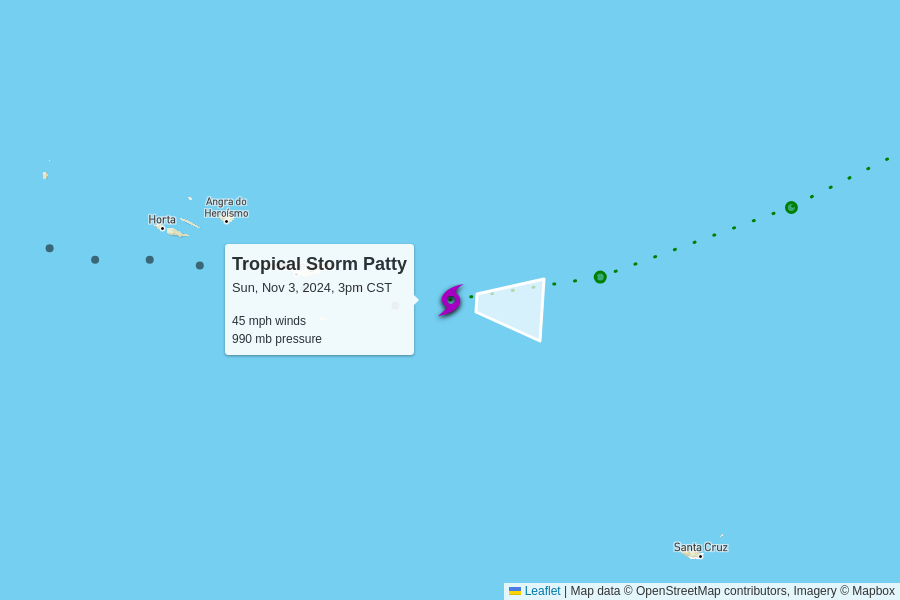
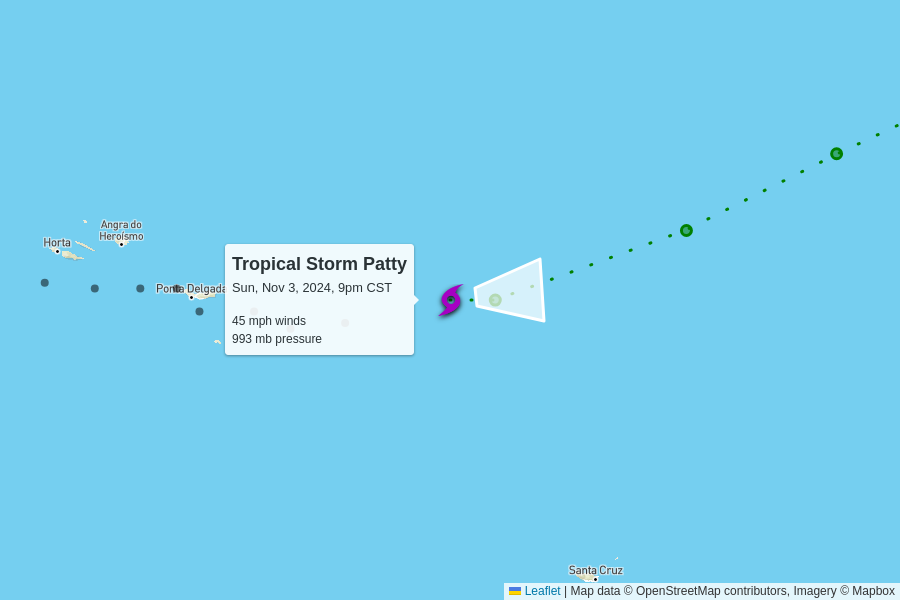
automatic update

diff --git a/docs/index.html b/docs/index.html
@@ -103,6 +103,50 @@
       <tr>
         <td colspan="6" class="storm category-0" >
           <h2>
+            Tropical Storm Patty
+            <p class="updated">last updated <span data-time>2024-11-04T03:00:00.000Z</span></p>
+          </h2>
+        </td>
+      </tr>
+      
+      <tr>
+        <th class="spacer"></th>
+        <th>wind speed</th>
+        <th>central pressure</th>
+        <th>movement</th>
+        <th>data (CSV)</th>
+        <th>National Hurricane Center</th>
+      </tr>
+      <tr>
+        <td class="spacer"></td>
+        <td>45 mph<br>0 mph since last update</td>
+        <td>993 mb<br>+3 mb since last update</td>
+        <td>
+          20 mph to the east
+          <br/>
+          <span style="display: inline-block; font-size: 1.5em; transform: rotate(85deg);">↑</span>
+        </td>
+        <td><a href="https://raw.githubusercontent.com/mgwalker/atlantic-hurricanes/main/data/csv/AL172024.csv">AL172024.csv</a></td>
+        <td><a href="https://www.nhc.noaa.gov/archive/2024/PATTY.shtml?">NHC advisories</a></td>
+      </tr>
+      <tr id="storm_AL172024" >
+        <td class="spacer">
+        <td colspan="5">
+          <figure>
+            <img src="AL172024.png">
+            <figcaption>
+              Map data &copy; <a href="https://www.openstreetmap.org/copyright">OpenStreetMap</a> contributors,
+              Imagery &copy; <a href="https://www.mapbox.com/">Mapbox</a> |
+              <a href="https://www.mapbox.com/map-feedback/" target="_blank">Improve this map</a>
+            </figcaption>
+          </figure>
+        </td>
+      </tr>
+      
+
+      <tr>
+        <td colspan="6" class="storm category-0" >
+          <h2>
             Potential Tropical Cyclone Eighteen
             <p class="updated">last updated <span data-time>2024-11-04T00:00:00.000Z</span></p>
           </h2>
@@ -134,50 +178,6 @@
         <td colspan="5">
           <figure>
             <img src="AL182024.png">
-            <figcaption>
-              Map data &copy; <a href="https://www.openstreetmap.org/copyright">OpenStreetMap</a> contributors,
-              Imagery &copy; <a href="https://www.mapbox.com/">Mapbox</a> |
-              <a href="https://www.mapbox.com/map-feedback/" target="_blank">Improve this map</a>
-            </figcaption>
-          </figure>
-        </td>
-      </tr>
-      
-
-      <tr>
-        <td colspan="6" class="storm category-0" >
-          <h2>
-            Tropical Storm Patty
-            <p class="updated">last updated <span data-time>2024-11-03T21:00:00.000Z</span></p>
-          </h2>
-        </td>
-      </tr>
-      
-      <tr>
-        <th class="spacer"></th>
-        <th>wind speed</th>
-        <th>central pressure</th>
-        <th>movement</th>
-        <th>data (CSV)</th>
-        <th>National Hurricane Center</th>
-      </tr>
-      <tr>
-        <td class="spacer"></td>
-        <td>45 mph<br>0 mph since last update</td>
-        <td>990 mb<br>-2 mb since last update</td>
-        <td>
-          17 mph to the east
-          <br/>
-          <span style="display: inline-block; font-size: 1.5em; transform: rotate(95deg);">↑</span>
-        </td>
-        <td><a href="https://raw.githubusercontent.com/mgwalker/atlantic-hurricanes/main/data/csv/AL172024.csv">AL172024.csv</a></td>
-        <td><a href="https://www.nhc.noaa.gov/archive/2024/PATTY.shtml?">NHC advisories</a></td>
-      </tr>
-      <tr id="storm_AL172024" >
-        <td class="spacer">
-        <td colspan="5">
-          <figure>
-            <img src="AL172024.png">
             <figcaption>
               Map data &copy; <a href="https://www.openstreetmap.org/copyright">OpenStreetMap</a> contributors,
               Imagery &copy; <a href="https://www.mapbox.com/">Mapbox</a> |
